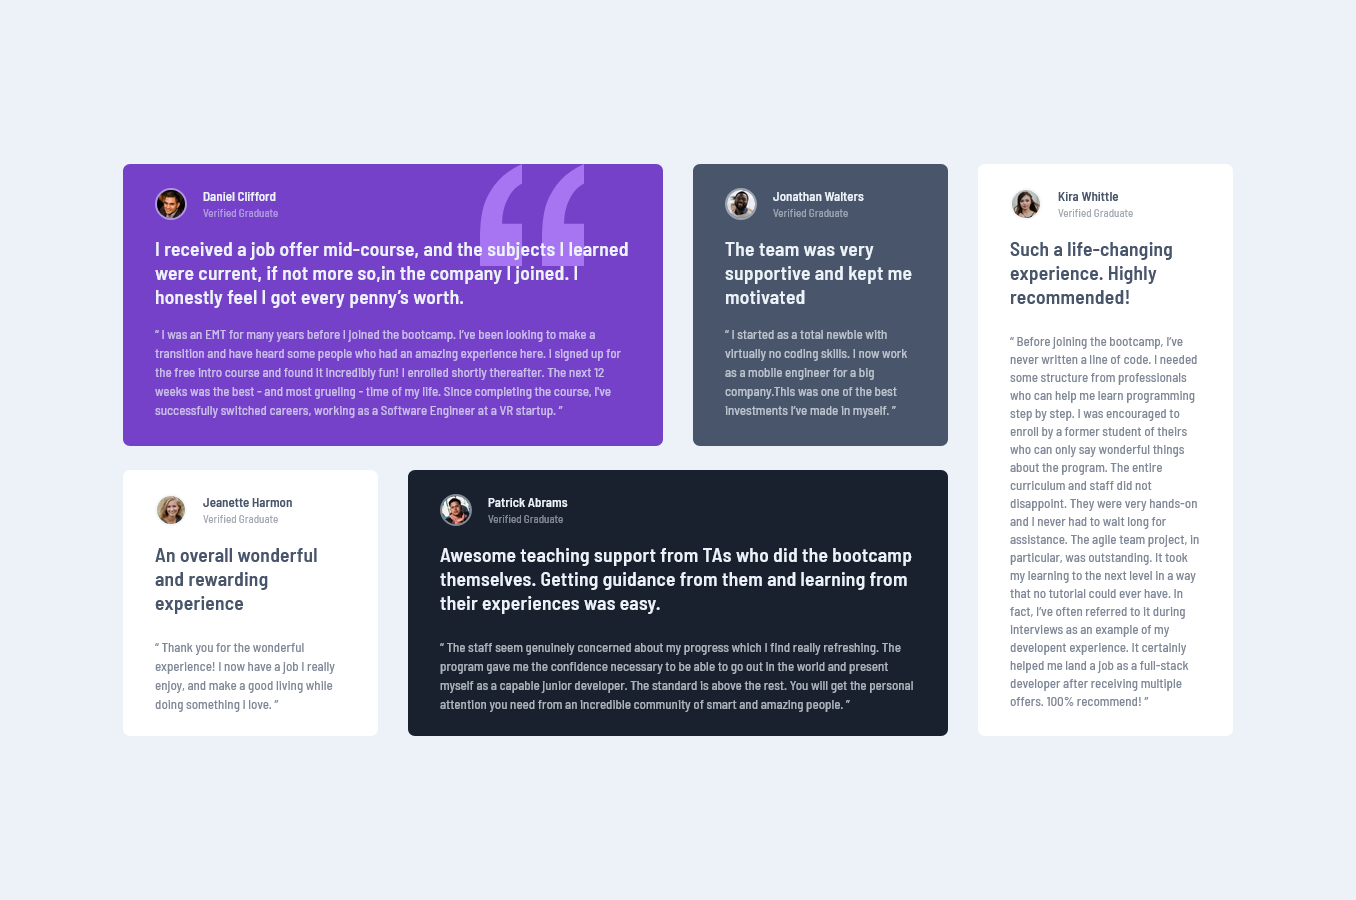
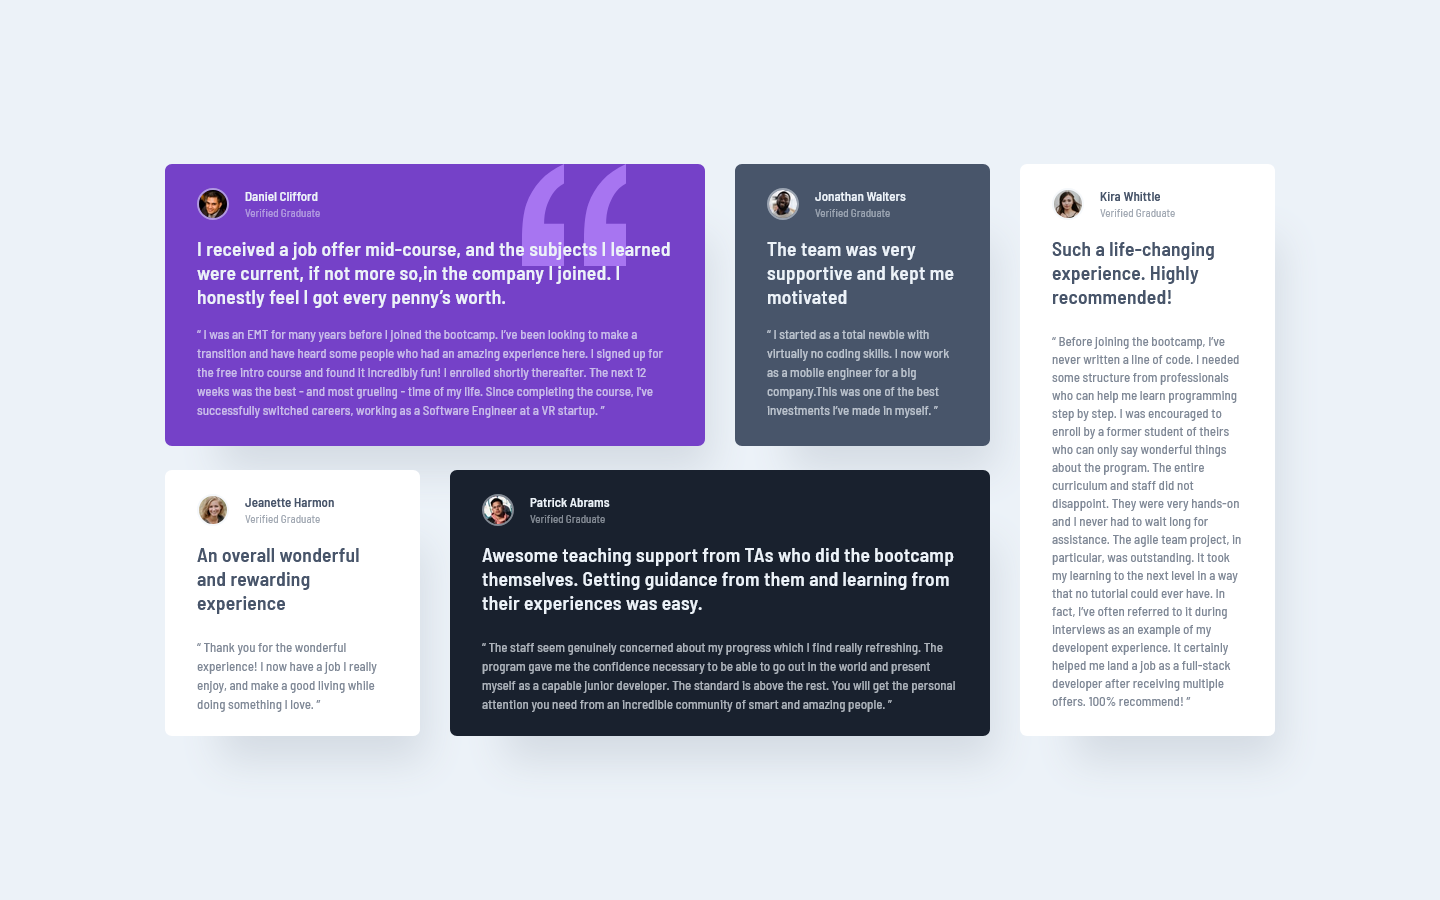
Add files via upload

Changed region(s): [[0.1239, 0.1867, 0.8982, 0.84], [0.0929, 0.1556, 0.4646, 0.4978], [0.0929, 0.5289, 0.2478, 0.6844]]

diff --git a/index.html b/index.html
@@ -27,11 +27,11 @@
             </div>
           </div>
           <div class="bottom-area">
-            <h2>
+            <h1>
               I received a job offer mid-course, and the subjects I learned were
               current, if not more so,in the company I joined. I honestly feel I
               got every penny’s worth.
-            </h2>
+            </h1>
             <p>
               “ I was an EMT for many years before I joined the bootcamp. I’ve
               been looking to make a transition and have heard some people who

diff --git a/style.css b/style.css
@@ -20,8 +20,6 @@
   --white: hsl(0, 0%, 100%);
 
   --lightGray: hsl(0, 0%, 81%);
-  --lightGray50: hsla(0, 0%, 81%, 50%);
-  --lightGray70: hsla(0, 0%, 81%, 70%);
   --lightGrayishBlue: hsl(210, 46%, 95%);
   --lightGrayishBlue50: hsla(210, 46%, 95%, 50%);
   --lightGrayishBlue70: hsla(210, 46%, 95%, 70%);
@@ -63,6 +61,7 @@ body {
   width: 100%;
   padding: 24px 32px;
   border-radius: 7px;
+  box-shadow: 30px 50px 40px -25px hsl(212, 21%, 86%);
 }
 .card:not(:last-child) {
   margin-bottom: 24px;
